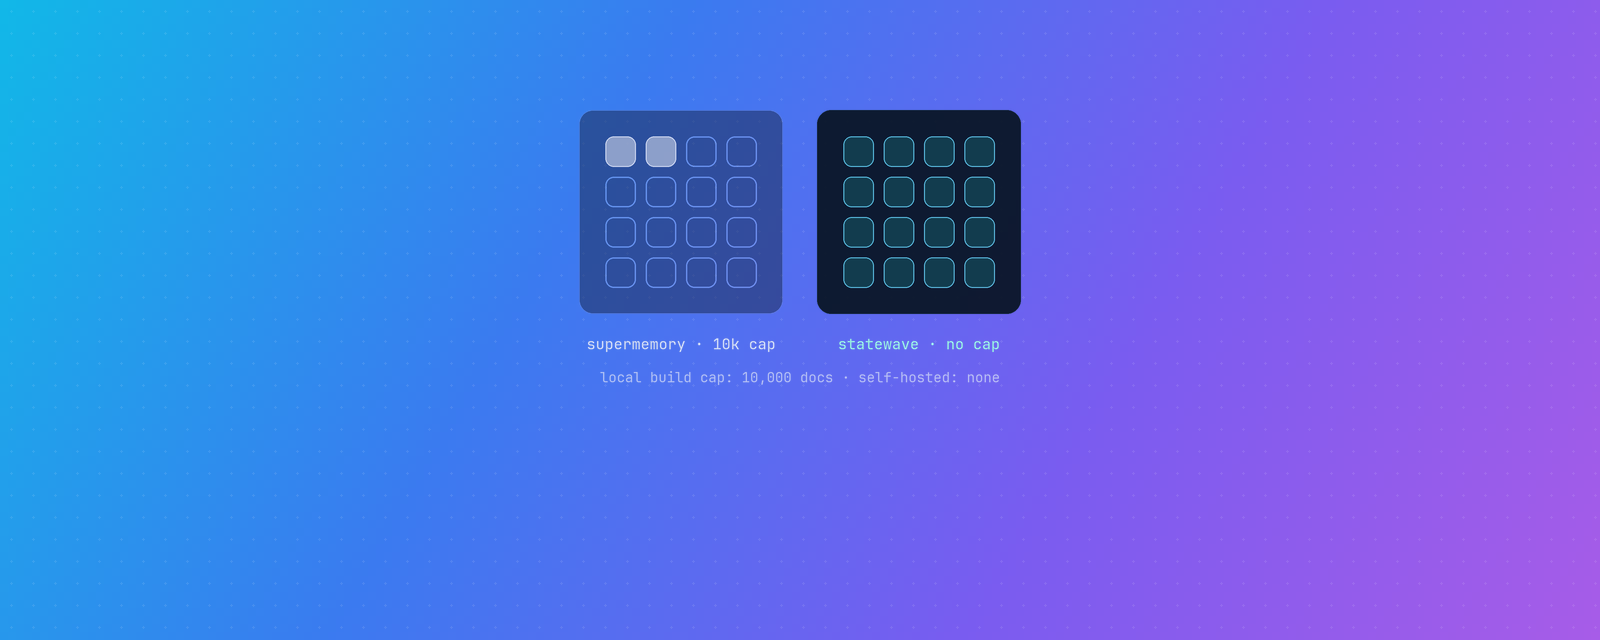
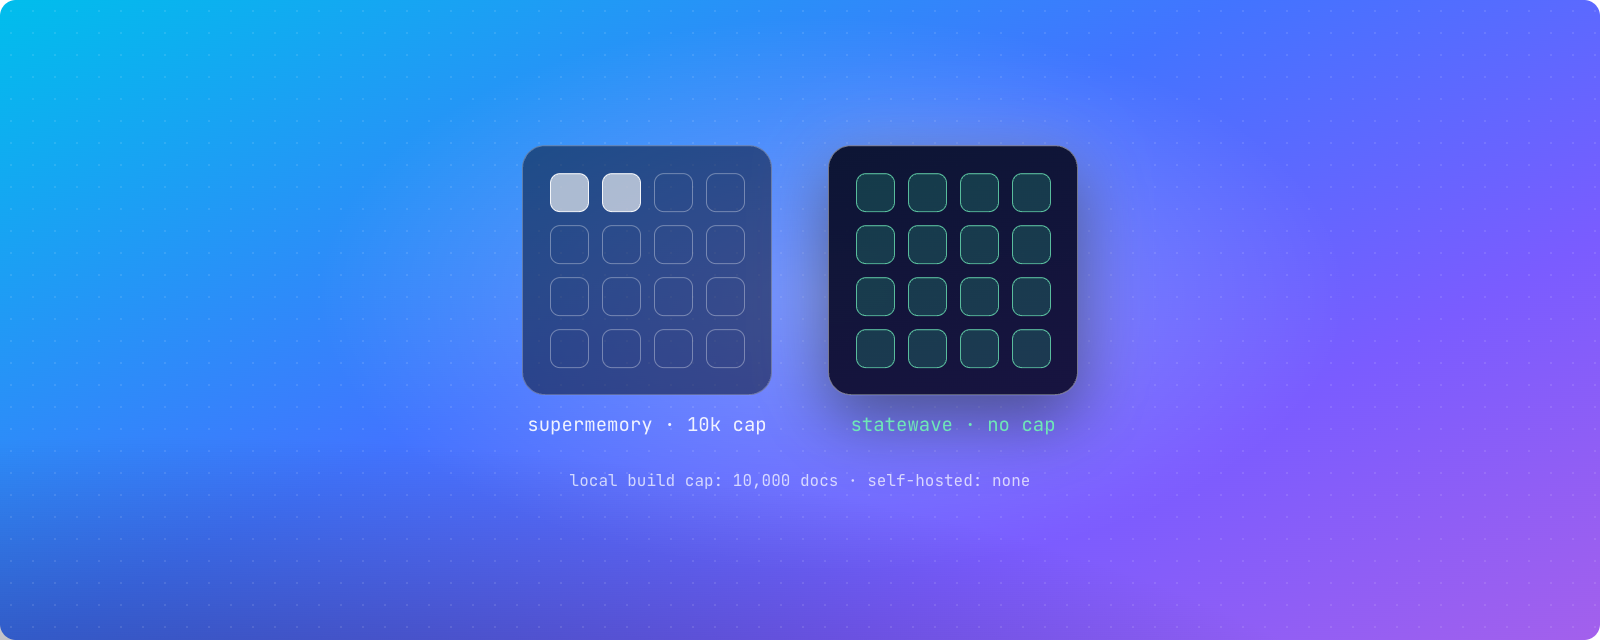
feat(alternatives): add /alternatives hub page, consolidate footer vs-links
Adds a comparison hub at /alternatives (route + PAGE_META + FAQ entries),
modeled on Firecrawl's alternatives page: an at-a-glance retrieval/deployment
matrix, then cards linking to each /vs/<x> page, an FAQ section, and a
benchmarks CTA.

The footer's Product column previously listed all four vs-* links directly,
leaving it visibly taller than the Developers/Community columns; those are
now collapsed into a single "Alternatives" link.

Also swaps in the supplied header/OG artwork for the Supermemory
alternatives post.

diff --git a/src/pages/AlternativesPage.tsx b/src/pages/AlternativesPage.tsx
@@ -1,0 +1,227 @@
+import { Link } from 'react-router'
+import { Section } from '../components/Section'
+import { Heading } from '../components/Heading'
+import { Button } from '../components/Button'
+import { PageFaq } from '../components/PageFaq'
+import { usePageSEO } from '../lib/seo'
+
+interface ComparisonCard {
+  name: string
+  href: string
+  subtitle: string
+  description: string
+}
+
+interface MatrixRow {
+  name: string
+  retrieval: string
+  deployment: string
+  statewave?: boolean
+}
+
+/* Retrieval and deployment facts are pulled from each product's own
+ * comparison table on its /vs/<x> page (the "How context is selected" and
+ * "License"/"Deployment" rows) so this matrix can't drift from what those
+ * pages already say, plus the Supermemory local-build cap sourced from its
+ * v0.0.7 release notes (see the Supermemory alternatives blog post). */
+const MATRIX: ReadonlyArray<MatrixRow> = [
+  {
+    name: 'Mem0',
+    retrieval: 'Top-k embedding-nearest as the candidate pool, then re-scored',
+    deployment: 'Apache 2.0 core, paid platform',
+  },
+  {
+    name: 'Letta',
+    retrieval: 'The agent reads and edits its own context tree with tool calls',
+    deployment: 'Apache 2.0, with managed Letta Cloud',
+  },
+  {
+    name: 'Zep',
+    retrieval: 'Graph traversal plus a managed reranker',
+    deployment: 'Cloud, BYOK, or BYOC — self-hosted Community Edition discontinued 2025',
+  },
+  {
+    name: 'Supermemory',
+    retrieval: 'Hybrid vector + keyword search with a context-aware reranker',
+    deployment: 'Self-hostable binary (10k-doc local cap) or a managed hosted platform',
+  },
+  {
+    name: 'Statewave',
+    retrieval: 'Deterministic assembly, ranked to a token budget',
+    deployment: 'Apache 2.0 throughout, runs fully offline',
+    statewave: true,
+  },
+]
+
+const COMPARISONS: ReadonlyArray<ComparisonCard> = [
+  {
+    name: 'Mem0',
+    href: '/vs/mem0',
+    subtitle: 'Deterministic Context vs. Ranked Retrieval',
+    description:
+      'Mem0 ranks memories by relevance for an id you pass. Statewave compiles episodes into typed memories with a fixed scoring model, policy on the read path, and an integrity-hashed receipt.',
+  },
+  {
+    name: 'Letta',
+    href: '/vs/letta',
+    subtitle: 'Runtime-Managed vs. Agent-Managed Memory',
+    description:
+      'In Letta the agent edits its own memory blocks with tool calls. Statewave assembles a deterministic, token-bounded bundle mechanically, with no model in the loop.',
+  },
+  {
+    name: 'Zep',
+    href: '/vs/zep',
+    subtitle: 'Inspectable Bundle vs. Opaque Context Block',
+    description:
+      'Zep models memory as a knowledge graph and returns an opaque Context Block string. Statewave returns typed, provenance-traced memories with per-row confidence and validity.',
+  },
+  {
+    name: 'Supermemory',
+    href: '/vs/supermemory',
+    subtitle: 'Deterministic Bundle vs. Reranked Search',
+    description:
+      'Supermemory does hybrid vector-plus-keyword search with context-aware reranking. Statewave assembles a deterministic bundle with per-row provenance and an integrity-hashed receipt.',
+  },
+]
+
+export function AlternativesPage() {
+  usePageSEO()
+
+  return (
+    <>
+      <section className="pt-24 pb-14 sm:pt-28 sm:pb-16 md:pt-36">
+        <div className="mx-auto max-w-4xl px-5 sm:px-6">
+          <p className="section-eyebrow mb-5 text-xs font-semibold uppercase tracking-[0.18em] text-brand-500/75">
+            Comparisons
+          </p>
+
+          <h1 className="font-heading text-4xl font-bold leading-[0.98] tracking-[-0.03em] text-theme-primary sm:text-5xl md:text-[56px]">
+            Statewave <span className="text-gradient-brand">alternatives</span>
+          </h1>
+
+          <p className="mt-7 max-w-2xl text-[17px] leading-[1.7] text-theme-secondary/90 sm:text-[19px]">
+            How Statewave's deterministic, token-bounded context assembly
+            compares to the other memory systems teams evaluate alongside it.
+          </p>
+
+          <p className="mt-4 max-w-2xl text-sm leading-relaxed text-theme-muted">
+            Same question, four times: does the system compile a fixed
+            answer ahead of time, or search and re-rank one at call time?
+            The matrix below is the short version; each card links to the
+            full breakdown.
+          </p>
+        </div>
+      </section>
+
+      <Section className="!pt-0">
+        <div className="mx-auto max-w-5xl overflow-x-auto rounded-2xl border border-theme-border">
+          <table className="w-full min-w-[640px] border-collapse text-left text-sm">
+            <thead>
+              <tr className="border-b border-theme-border bg-surface-1/60">
+                <th className="px-5 py-3 font-semibold text-theme-primary">Product</th>
+                <th className="px-5 py-3 font-semibold text-theme-primary">How context is selected</th>
+                <th className="px-5 py-3 font-semibold text-theme-primary">Deployment</th>
+              </tr>
+            </thead>
+
+            <tbody className="divide-y divide-theme-border">
+              {MATRIX.map((row) => (
+                <tr
+                  key={row.name}
+                  className={row.statewave ? 'bg-surface-2/60' : 'bg-surface-1/25'}
+                >
+                  <td className={`px-5 py-4 align-top font-medium ${row.statewave ? 'text-brand-400' : 'text-theme-primary'}`}>
+                    {row.name}
+                  </td>
+                  <td className="px-5 py-4 align-top text-theme-secondary">{row.retrieval}</td>
+                  <td className="px-5 py-4 align-top text-theme-secondary">{row.deployment}</td>
+                </tr>
+              ))}
+            </tbody>
+          </table>
+        </div>
+      </Section>
+
+      <Section className="!pt-0">
+        <div className="grid gap-4 sm:grid-cols-2">
+          {COMPARISONS.map((card) => (
+            <Link
+              key={card.name}
+              to={card.href}
+              className="group flex flex-col rounded-2xl border border-theme-border bg-surface-1/45 p-6 transition-all duration-200 hover:-translate-y-1 hover:border-theme-border-hover hover:bg-surface-1/55"
+            >
+              <h2 className="text-xl font-semibold text-theme-primary">
+                Statewave vs {card.name}
+              </h2>
+
+              <p className="mt-2 text-[11px] font-semibold uppercase tracking-[0.14em] text-brand-400">
+                {card.subtitle}
+              </p>
+
+              <p className="mt-4 text-sm leading-relaxed text-theme-muted">
+                {card.description}
+              </p>
+
+              <span className="mt-6 inline-flex items-center gap-1.5 text-sm font-medium text-brand-400">
+                Read the comparison
+
+                <svg
+                  className="h-4 w-4 transition-transform group-hover:translate-x-0.5"
+                  fill="none"
+                  stroke="currentColor"
+                  viewBox="0 0 24 24"
+                  aria-hidden="true"
+                >
+                  <path
+                    strokeLinecap="round"
+                    strokeLinejoin="round"
+                    strokeWidth={2}
+                    d="M13 7l5 5m0 0l-5 5m5-5H6"
+                  />
+                </svg>
+              </span>
+            </Link>
+          ))}
+        </div>
+      </Section>
+
+      <PageFaq route="/alternatives" />
+
+      <Section>
+        <div className="cta-card relative overflow-hidden rounded-[2.5rem] border border-brand-500/25 bg-surface-1/55 px-6 py-16 text-center sm:py-20">
+          <div className="cta-card-glow absolute inset-0" aria-hidden="true" />
+
+          <div
+            className="absolute inset-x-20 top-0 h-px bg-gradient-to-r from-transparent via-brand-500/60 to-transparent"
+            aria-hidden="true"
+          />
+
+          <div className="relative z-10 mx-auto max-w-2xl">
+            <p className="section-eyebrow mb-4 text-xs font-semibold uppercase tracking-[0.18em] text-brand-500/75">
+              Open benchmark
+            </p>
+
+            <Heading
+              id="not-listed"
+              className="font-heading text-3xl font-bold tracking-[-0.02em] text-theme-primary sm:text-4xl"
+            >
+              Comparing something else?
+            </Heading>
+
+            <p className="mt-5 text-[17px] leading-[1.7] text-theme-secondary/85">
+              Statewave is open source and self-hosted, so you can benchmark
+              it against any memory system yourself using the public,
+              reproducible benchmark suite.
+            </p>
+
+            <div className="mt-8 flex flex-wrap justify-center gap-3">
+              <Button to="/benchmarks" size="lg">
+                View benchmark methodology
+              </Button>
+            </div>
+          </div>
+        </div>
+      </Section>
+    </>
+  )
+}

diff --git a/src/lib/page-faqs.ts b/src/lib/page-faqs.ts
@@ -222,6 +222,13 @@ export const PAGE_FAQS: Partial<Record<RouteKey, readonly FaqEntry[]>> = {
     },
   ],
 
+  '/alternatives': [
+    { question: 'How does Statewave compare to Mem0, Letta, Zep, and Supermemory?', answer: 'All four rank or retrieve memory at query time in their own way — Mem0 by relevance score, Letta through agent-managed tool calls, Zep via knowledge-graph traversal, Supermemory with hybrid search plus reranking. Statewave instead compiles episodes into typed memories ahead of time and assembles a deterministic, token-bounded bundle with policy enforcement and an integrity-hashed receipt of what was delivered.' },
+    { question: 'Is Statewave self-hosted like these alternatives?', answer: 'Yes — Apache-2.0, self-hosted on PostgreSQL and pgvector, with no cloud dependency. That is not universal among the alternatives: Zep discontinued its self-hosted Community Edition in 2025 and now runs memory only through Zep Cloud, BYOK, or Bring-Your-Own-Cloud.' },
+    { question: 'Are Mem0, Letta, Zep, and Supermemory open source?', answer: 'Partially, and the gate lands in different places. Mem0’s core is Apache 2.0 but its hosted platform is paid. Letta is Apache 2.0 with a managed Letta Cloud. Supermemory’s repo is MIT, but the local build caps out at 10,000 documents and supported self-hosted deployment starts on its $399/month Scale plan. Zep dropped its self-hosted Community Edition in 2025. Statewave is Apache-2.0 across the server and SDKs with no paid tier gating self-hosting.' },
+    { question: 'Which comparison should I read first?', answer: 'Match it to what you already have: read vs Mem0 if you’re replacing an existing Mem0 integration, vs Letta if your agent framework already manages its own memory with tool calls, vs Zep if you need a knowledge-graph model or are affected by its Community Edition sunset, and vs Supermemory if you need the multimodal or local-binary surface it covers.' },
+  ],
+
   '/connectors': [
     {
       question: 'What does a Statewave connector actually do?',

diff --git a/src/App.tsx b/src/App.tsx
@@ -14,6 +14,7 @@ const StatewaveVsMem0Page = lazy(() => import('./pages/StatewaveVsMem0Page').the
 const StatewaveVsLettaPage = lazy(() => import('./pages/StatewaveVsLettaPage').then(m => ({ default: m.StatewaveVsLettaPage })))
 const StatewaveVsZepPage = lazy(() => import('./pages/StatewaveVsZepPage').then(m => ({ default: m.StatewaveVsZepPage })))
 const StatewaveVsSupermemoryPage = lazy(() => import('./pages/StatewaveVsSupermemoryPage').then(m => ({ default: m.StatewaveVsSupermemoryPage })))
+const AlternativesPage = lazy(() => import('./pages/AlternativesPage').then(m => ({ default: m.AlternativesPage })))
 const ConnectorsPage = lazy(() => import('./pages/ConnectorsPage').then(m => ({ default: m.ConnectorsPage })))
 const DevelopersPage = lazy(() => import('./pages/DevelopersPage').then(m => ({ default: m.DevelopersPage })))
 const OpenRouterPage = lazy(() => import('./pages/OpenRouterPage').then(m => ({ default: m.OpenRouterPage })))
@@ -50,6 +51,7 @@ export default function App() {
           <Route path="/vs/letta" element={<StatewaveVsLettaPage />} />
           <Route path="/vs/zep" element={<StatewaveVsZepPage />} />
           <Route path="/vs/supermemory" element={<StatewaveVsSupermemoryPage />} />
+          <Route path="/alternatives" element={<AlternativesPage />} />
           <Route path="/connectors" element={<ConnectorsPage />} />
           <Route path="/developers" element={<DevelopersPage />} />
           <Route path="/openrouter" element={<OpenRouterPage />} />

diff --git a/src/lib/seo-meta.ts b/src/lib/seo-meta.ts
@@ -57,6 +57,7 @@ export type RouteKey =
   | '/vs/letta'
   | '/vs/zep'
   | '/vs/supermemory'
+  | '/alternatives'
   | '/connectors'
   | '/developers'
   | '/openrouter'
@@ -83,6 +84,7 @@ export const PUBLIC_ROUTES: readonly RouteKey[] = [
   '/vs/letta',
   '/vs/zep',
   '/vs/supermemory',
+  '/alternatives',
   '/connectors',
   '/developers',
   '/openrouter',
@@ -235,6 +237,15 @@ export const PAGE_META: Record<RouteKey, PageMeta> = {
     description:
       'How Statewave compares to Supermemory: deterministic, token-bounded context assembly with per-row provenance and integrity-hashed receipts vs. hybrid vector-plus-keyword search with context-aware reranking — plus each product’s own LoCoMo and LongMemEval figures, shown apart since they measure different things.',
     breadcrumbLabel: 'vs Supermemory',
+    ogType: 'article',
+    priority: 0.7,
+    changefreq: 'monthly',
+  },
+  '/alternatives': {
+    title: 'Statewave Alternatives — Compare vs. Mem0, Letta, Zep & Supermemory',
+    description:
+      'Every Statewave comparison in one place: deterministic, token-bounded context assembly with provenance and policy enforcement, measured against Mem0, Letta, Zep, and Supermemory’s own retrieval models. Apache-2.0, self-hosted on Postgres.',
+    breadcrumbLabel: 'Alternatives',
     ogType: 'article',
     priority: 0.7,
     changefreq: 'monthly',

diff --git a/src/components/Footer.tsx b/src/components/Footer.tsx
@@ -50,10 +50,7 @@ export function Footer() {
               <li><Link to="/product" className="text-sm text-theme-muted hover:text-theme-primary transition-colors">How it works</Link></li>
               <li><Link to="/why" className="text-sm text-theme-muted hover:text-theme-primary transition-colors">Why Statewave</Link></li>
               <li><Link to="/use-cases" className="text-sm text-theme-muted hover:text-theme-primary transition-colors">Use Cases</Link></li>
-              <li><Link to="/vs/mem0" className="text-sm text-theme-muted hover:text-theme-primary transition-colors">vs Mem0</Link></li>
-              <li><Link to="/vs/letta" className="text-sm text-theme-muted hover:text-theme-primary transition-colors">vs Letta</Link></li>
-              <li><Link to="/vs/zep" className="text-sm text-theme-muted hover:text-theme-primary transition-colors">vs Zep</Link></li>
-              <li><Link to="/vs/supermemory" className="text-sm text-theme-muted hover:text-theme-primary transition-colors">vs Supermemory</Link></li>
+              <li><Link to="/alternatives" className="text-sm text-theme-muted hover:text-theme-primary transition-colors">Alternatives</Link></li>
               <li><Link to="/connectors" className="text-sm text-theme-muted hover:text-theme-primary transition-colors">Connectors</Link></li>
               <li>
                 <button
